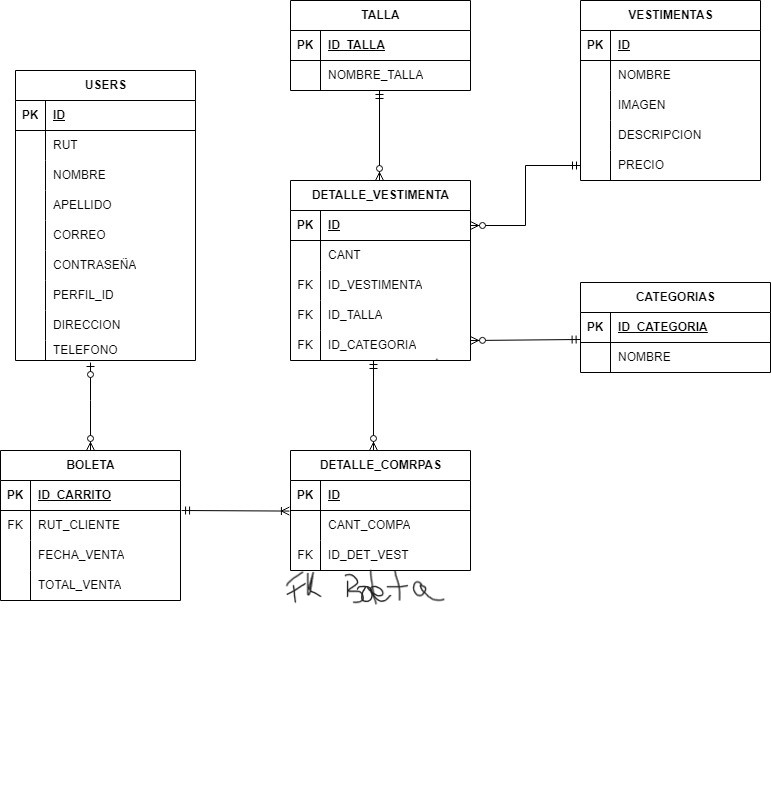
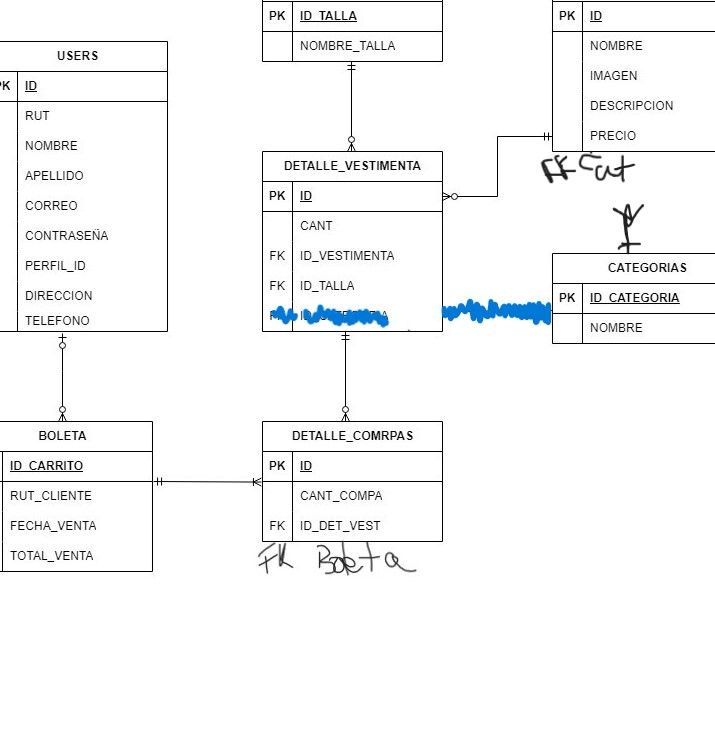
Avances del talla

diff --git a/resources/views/admin/detalle_vestimenta/det_vest_crear.blade.php b/resources/views/admin/detalle_vestimenta/det_vest_crear.blade.php
@@ -1,60 +1,78 @@
 @extends('layouts.master')
 
 @section("contenido-principal")
- 
 <div class="container mt-5">
-  <div class="row justify-content-center">
-      <div class="col-md-6">
-          <div class="card">
-              <div class="card-header bg-primary text-white">
-                  <h2 class="mb-0">Agregar detalle vestimenta</h2>
-              </div>
-              <div class="card-body">
-                  <form method="post" action="{{ route('detalles_vestimentas.store') }}" enctype="multipart/form-data">
-                      @csrf
-                            <div class="form-group">
-                                <label for="scrollSection">Seleccionar Vestimenta:</label>
-                                <div class="scroll-section" style="max-height: 200px; overflow-y: auto; border: 1px solid #ccc;">
-                                    @foreach ($vestimentas as $vestimenta)
-                                    <div class="container">
-                                        <div class="form-check">
-                                            <input class="form-check-input" type="radio" name="RadioVest" id="vestimenta_{{ $vestimenta->id }}" value="{{ $vestimenta->id }}">
-                                            <label class="form-check-label" for="vestimenta_{{ $vestimenta->id }}">{{ $vestimenta->nombre }}</label>
-                                        </div>
-                                    </div>
-                                    @endforeach
+    <div class="row justify-content-center">
+        <div class="col-md-6">
+            <div class="card">
+                <div class="card-header bg-primary text-white">
+                    <h2 class="mb-0">{{ $vestimenta->nombre }}</h2>
+                </div>
+                <div class="card-body">
+                    <div class="row">
+                        <div class="col-md-6 text-center">
+                            <div class="rounded border p-2" style="width: 150px; height: 150px; overflow: hidden; margin: 0 auto;">
+                                <img src="{{ Storage::url($vestimenta->imagen) }}" alt="{{ $vestimenta->nombre }}" class="img-fluid rounded" style="width: 100%; height: 100%; object-fit: cover;">
+                            </div>
+                        </div>
+                        <div class="col-md-6">
+                            <form method="post" action="{{ route('detalles_vestimentas.store') }}" enctype="multipart/form-data">
+                                @csrf
+                                <div class="form-group mt-3">
+                                    <label for="talla">Talla:</label>
+                                    <select class="form-select" aria-label="Default select example" name="talla">
+                                        <option selected>Open this select menu</option>
+                                        @foreach ($tallas as $talla)
+                                            <option value="{{ $talla->id }}">{{ $talla->talla }}</option>
+                                        @endforeach
+                                    </select>
                                 </div>
-                            </div>
 
-                            <div class="form-group">
-                                <label for="talla">Talla:</label>
-                                <select class="form-select" aria-label="Default select example" name="talla">
-                                    <option selected>Open this select menu</option>
-                                    @foreach ($tallas as $talla)
-                                    <option value="{{ $talla->id }}">{{ $talla->talla }}</option>
-                                    @endforeach
-                                </select>
-                            </div>
-                             
-                            <div class="form-group">
-                                <label for="categoria">Categoria:</label>
-                                <select class="form-select" aria-label="Default select example" name="categoria">
-                                    <option selected>Open this select menu</option>
-                                    @foreach ($categorias as $categoria)
-                                    <option value="{{ $categoria->id }}">{{ $categoria->nombre }}</option>
-                                    @endforeach
-                                </select>
-                            </div>
+                                <div class="form-group">
+                                    <label for="precio">Cantidad:</label>
+                                    <input type="number" class="form-control" id="cantidad" name="cantidad" step="1">
+                                </div>
+                                <input type="hidden" name="vestimenta" value="{{ $vestimenta->id }}">
 
-                            <div class="form-group">
-                                <label for="precio">Cantidad:</label>
-                                <input type="number" class="form-control" id="cantidad" name="cantidad" step="1">
-                            </div>
-
-                            <button type="submit" class="btn btn-primary">Guardar</button>
-                    </form>
+                                <button type="submit" class="btn btn-primary">Guardar</button>
+                            </form>
+                        </div>
+                    </div>
                 </div>
             </div>
+        </div>
+
+        <div class="col-md-6">
+            <table class="table">
+                <thead>
+                    <tr>
+                        <th scope="col">Talla</th>
+                        <th scope="col">Cantidad</th>
+                        <th scope="col">Operaciones</th>
+                    </tr>
+                  </thead>
+                  <tbody>
+                    <tr>
+                        @foreach ($detallesVestimentas as $detalleVestimenta)
+                        <td scope="row">{{ $detalleVestimenta->talla->nombre }}</td>
+                        <td>{{ $detalleVestimenta->cantidad }}</td>
+                        <td>
+                            <form action="">
+                                <div class="row">
+                                    <div class="col">
+                                        <input type="number" class="form-control form-control-sm" name="cantidad" step="1" style="width: 80px;">
+                                    </div>
+                                    <div class="col">
+                                        <a href="#" class="btn btn-sm btn-success">+</a>
+                                        <a href="#" class="btn btn-sm btn-warning">-</a>
+                                    </div>
+                                </div>
+                            </form>
+                        </td>  
+                        @endforeach
+                    </tr>
+                  </tbody>
+            </table>
         </div>
     </div>
 </div>

diff --git a/app/Http/Controllers/DetalleVestimentaController.php b/app/Http/Controllers/DetalleVestimentaController.php
@@ -115,27 +115,27 @@ class DetalleVestimentaController extends Controller
         $detallesVestimentas = DetalleVestimenta::all();
         return view('detalle_vestimenta.det_vest_index',compact('detallesVestimentas'));
     }
-    public function create(){
-        $vestimentas = Vestimenta::all();
+    public function talla(string $id){
+        $vestimenta = Vestimenta::find($id);
         $tallas = Talla::all();
-        $categorias = Categoria::all();
-
-        return view('admin.detalle_vestimenta.det_vest_crear', compact('vestimentas','tallas','categorias'));
+        $detallesVestimentas = DetalleVestimenta::where('vestimenta_id', '=', $id)->get();
+        return view('admin.detalle_vestimenta.det_vest_crear', compact('vestimenta','tallas','detallesVestimentas'));
     }
     public function store(Request $request){
 
-        $vestimentaId = (int)$request->input('RadioVest');
+        $vestimentaId = (int)$request->input('vestimenta');
         $tallaId = (int)$request->talla;
-        $categoriaId = (int)$request->input('categoria');
         $cantidad = (int)$request->input('cantidad');
 
         // Crear el detalle de vestimenta
         DetalleVestimenta::create([
             'vestimenta_id' => $vestimentaId,
             'talla_id' => $tallaId,
-            'categoria_id' => $categoriaId,
             'cantidad' => $cantidad,
         ]);
-        return redirect()->route('inicio');
+        return redirect()->route('detalles_vestimentas.talla',['id'=>$vestimentaId]);
+    }
+    public function create(){
+        return view('acceso-denegado');
     }
 }

diff --git a/app/Http/Controllers/VestimentaController.php b/app/Http/Controllers/VestimentaController.php
@@ -6,6 +6,7 @@ use App\Models\Vestimenta;
 use Illuminate\Http\Request;
 use App\Http\Requests\VestimentaRequest;
 use Illuminate\Support\Facades\Storage;
+use App\Models\Categoria;
 
 class VestimentaController extends Controller
 {
@@ -23,7 +24,8 @@ class VestimentaController extends Controller
      */
     public function create()
     {
-        return view('admin.form-vestimenta');
+        $categorias = Categoria::all();
+        return view('admin.form-vestimenta',compact('categorias'));
     }
 
     /**
@@ -32,13 +34,14 @@ class VestimentaController extends Controller
     public function store(VestimentaRequest $request)
     {
         $imagenPath = $request->file('imagen')->store('public/storage/imagenes');
+        $categoriaId = (int)$request->input('categoria');
 
         Vestimenta::create([
             'imagen' => $imagenPath,
             'nombre' => $request->nombre,
             'descripcion' => $request->descripcion,
             'precio' => $request->precio,
-            
+            'categoria_id' => $categoriaId
         ]);
 
         return redirect()->route('inicio');//->with('success', 'vestimenta agregada exitosamente.');
@@ -55,7 +58,7 @@ class VestimentaController extends Controller
     /**
      * Show the form for editing the specified resource.
      */
-    public function edit(string $id)
+    public function edit(int $id)
     {
         $vestimenta = vestimenta::find($id);
         return view('admin.editar-vestimenta', compact('vestimenta'));

diff --git a/resources/views/admin/lista-prendas.blade.php b/resources/views/admin/lista-prendas.blade.php
@@ -12,8 +12,8 @@
             <th>Descripción</th>
             <th>Cantidad</th>
             <th>Precio</th>
-            <th>Tallaje</th>
-            <th>Acciones</th>
+            <th>Categoria</th>
+            <th>Opciones</th>
         </tr>
     </thead>
     <tbody>
@@ -28,10 +28,12 @@
                 <td>{{ $vestimenta->descripcion }}</td>
                 <td>{{ $vestimenta->cantidad }}</td>
                 <td>{{ $vestimenta->precio }}</td>
-                <td>{{ $vestimenta->tallaje }}</td>
+                <td>{{ $vestimenta->categoria->nombre }}</td>
                 <td>
+                    <a href="{{ route('detalles_vestimentas.talla', ['id' => $vestimenta->id]) }}" class="btn btn-sm btn-success">Talla</a>
+                    <div class="my-1"></div>
                     <a href="{{ route('admin.edit.vestimenta', ['id' => $vestimenta->id]) }}" class="btn btn-sm btn-warning">Editar</a>
-                    <h3></h3>
+                    <div class="my-1"></div>
                     <form action="{{ route('vestimentas.destroy', $vestimenta->id) }}" method="POST" style="display: inline;"> 
                         @csrf
                         @method('DELETE')

diff --git a/resources/views/admin/form-vestimenta.blade.php b/resources/views/admin/form-vestimenta.blade.php
@@ -31,6 +31,16 @@
                                 <label for="precio">Precio:</label>
                                 <input type="number" class="form-control" id="precio" name="precio" step="1">
                             </div>
+
+                            <div class="form-group">
+                                <label for="categoria">Categoria:</label>
+                                <select class="form-select" aria-label="Default select example" name="categoria">
+                                    <option selected>Open this select menu</option>
+                                    @foreach ($categorias as $categoria)
+                                    <option value="{{ $categoria->id }}">{{ $categoria->nombre }}</option>
+                                    @endforeach
+                                </select>
+                            </div>
                             {{-- 
                             <div class="form-group">
                                 <label for="cantidad">Cantidad:</label>

diff --git a/routes/web.php b/routes/web.php
@@ -36,9 +36,10 @@ Route::get('/', [VestimentaController::class, 'index'])->name('inicio');
 
 Route::get('/admin/vestimentas', [VestimentaController::class, 'mostrarLista'])->name('admin.show.vestimenta');
 Route::get('/admin/vestimentas/{id}', [VestimentaController::class, 'mostrarEditar'])->name('admin.edit.vestimenta');
-
+//Route::get('/admin/talla/{id}', [VestimentaController::class, 'talla'])->name('admin.talla.vestimenta');
 
 Route::resource('detalles_vestimentas',DetalleVestimentaController::class);
+Route::get('/detalles_vestimenta/talla/{id}',[DetalleVestimentaController::class, 'talla'])->name('detalles_vestimentas.talla');
 /*
 
 Route::get('/', [PrendaController::class, 'inicioMostrar'])->name('inicio');

diff --git a/app/Models/DetalleVestimenta.php b/app/Models/DetalleVestimenta.php
@@ -11,7 +11,8 @@ class DetalleVestimenta extends Model
 {
     use HasFactory;
 
-    protected $fillable = ['vestimenta_id','talla_id', 'categoria_id', 'cantidad'];
+    protected $fillable = ['vestimenta_id','talla_id', 'cantidad'];
+
     public function vestimenta(): BelongsTo
     {
         return $this->belongsTo(Vestimenta::class);
@@ -20,10 +21,7 @@ class DetalleVestimenta extends Model
     {
         return $this->belongsTo(Talla::class);
     }
-    public function categoria(): BelongsTo
-    {
-        return $this->belongsTo(Categoria::class);
-    }
+    
 
     public function detalleCompras(): HasMany
     {

diff --git a/database/migrations/2023_10_02_000006_create_detalle_vestimentas_table.php b/database/migrations/2023_10_02_000006_create_detalle_vestimentas_table.php
@@ -16,11 +16,9 @@ return new class extends Migration
             $table->id();
             $table->unsignedBigInteger('vestimenta_id');
             $table->unsignedBigInteger('talla_id');
-            $table->unsignedBigInteger('categoria_id');
             //atributos
             $table->mediumInteger('cantidad');
             //foreing key
-            $table->foreign('categoria_id')->references('id')->on('categorias');
             $table->foreign('vestimenta_id')->references('id')->on('vestimentas');
             $table->foreign('talla_id')->references('id')->on('tallas');
             $table->timestamps();

diff --git a/app/Models/Vestimenta.php b/app/Models/Vestimenta.php
@@ -10,11 +10,16 @@ class Vestimenta extends Model
 {
     use HasFactory;
 
-    protected $fillable = ['imagen','nombre', 'descripcion', 'precio'];
+    protected $fillable = ['imagen','nombre', 'descripcion', 'precio','categoria_id'];
     //uno a muchos
     public function detalleVestimentas(): HasMany
     {
         return $this->hasMany(DetalleVestimenta::class);
+    }
+    //pertenece
+    public function categoria(): BelongsTo
+    {
+        return $this->belongsTo(Categoria::class);
     }
 
 }

diff --git a/database/migrations/2023_10_02_000005_create_vestimentas_table.php b/database/migrations/2023_10_02_000005_create_vestimentas_table.php
@@ -17,6 +17,8 @@ return new class extends Migration
             $table->string('nombre');
             $table->text('descripcion');
             $table->integer('precio');
+            $table->unsignedBigInteger('categoria_id');
+            $table->foreign('categoria_id')->references('id')->on('categorias');
             $table->timestamps();
         });
     }

diff --git a/app/Models/Categoria.php b/app/Models/Categoria.php
@@ -14,7 +14,7 @@ class Categoria extends Model
 
     public function detalleVestimentas(): HasMany
     {
-        return $this->hasMany(DetalleVestimenta::class);
+        return $this->hasMany(Vestimenta::class);
     }
 
 }
